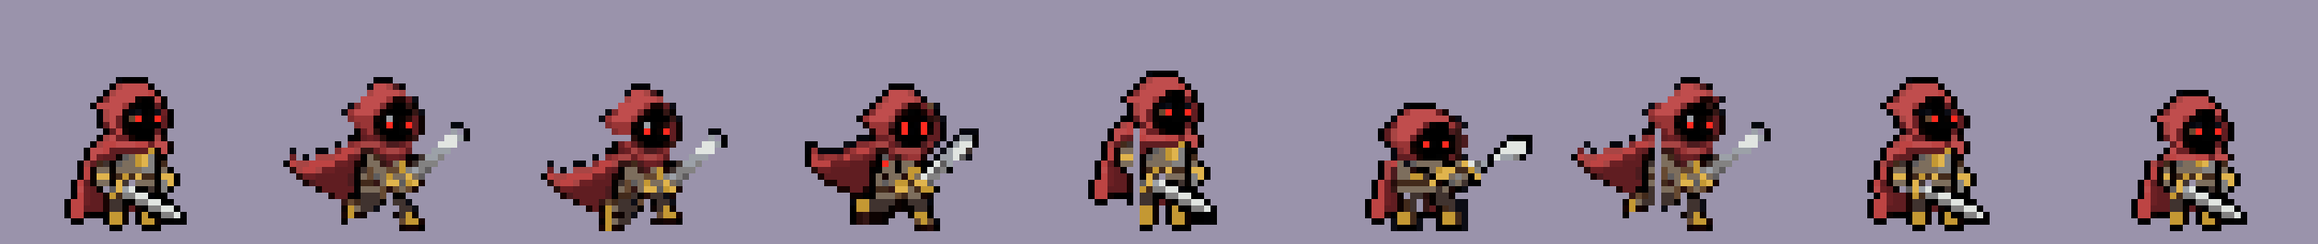
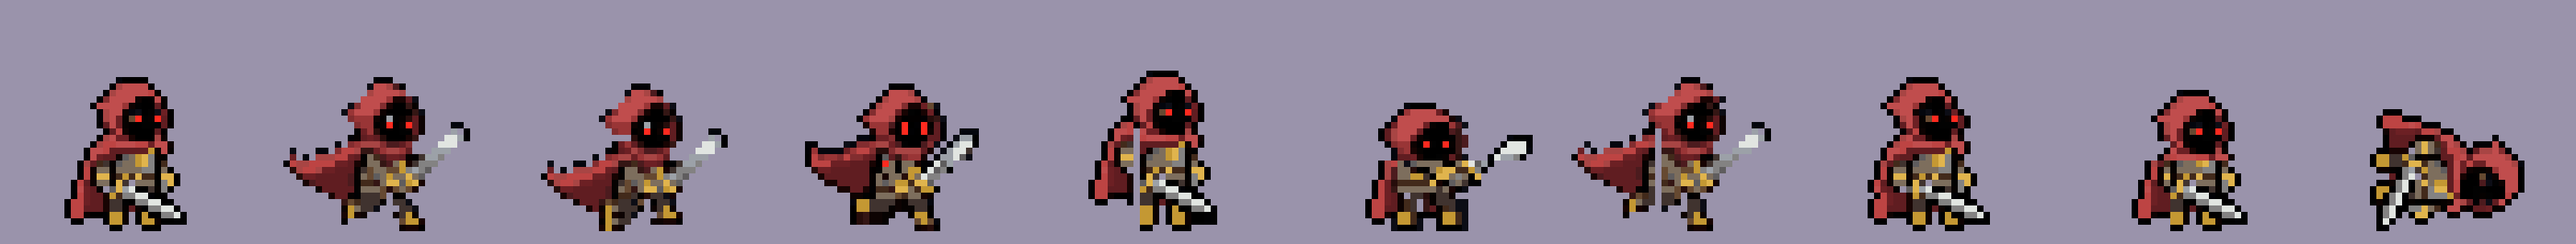
Torre 2D: la playa (arrancás dormido en la arena), la sala de la pluma con escalones alcanzables y el aterrizaje justo sobre el píxel

diff --git a/js/tower2d.js b/js/tower2d.js
@@ -56,16 +56,31 @@ try { const saved = JSON.parse(localStorage.getItem('t2d-feel') || '{}'); T2D_TU
 //     P entrada · E caminante · C embestidor (avisa y embiste) · F la Pluma de Arén (doble salto)
 //     Los bordes abiertos llevan a la sala que dice `exits`.
 const T2D_ROOMS = {
-    base: { name: 'La puerta de la Torre', exits: { right: 'salon' }, rows: [
+    playa: { name: 'La playa', bg: 'beach', camUp: 45, exits: { right: 'base' }, rows: [
+        '.....................................................#######',
+        '.....................................................#######',
+        '.....................................................#######',
+        '.....................................................#######',
+        '.....................................................#######',
+        '.....................................................#######',
+        '............................................................',
+        '#............................##.......ss....................',
+        '#................ss....ww.P..##.....sssss...................',
+        '#~~~~~~~~~~~~~~~sssssssssssssssssssssssssssssssssssss#######',
+        '#~~~~~~~~~~~~~~~sssssssssssssssssssssssssssssssssssss#######',
+        '#~~~~~~~~~~~~~~~sssssssssssssssssssssssssssssssssssss#######',
+        '#ssssssssssssssssssssssssssssssssssssssssssssssssssss#######',
+        '############################################################'] },
+    base: { name: 'La puerta de la Torre', exits: { left: 'playa', right: 'salon' }, rows: [
         '########################################',
         '#......................................#',
         '#......................................#',
         '#......................................#',
         '#......................................#',
         '#......................................#',
-        '#.....................======...........#',
-        '#......................................#',
-        '#..............====....................#',
+        '......................======...........#',
+        '.......................................#',
+        '...............====....................#',
         '#......................................#',
         '#.....=====........................tt...',
         '#..................................tt...',
@@ -73,18 +88,18 @@ const T2D_ROOMS = {
         '########################################'] },
     salon: { name: 'El Atrio Verde', exits: { left: 'base', up: 'alto' }, rows: [
         '###############################...######',
+        '#......................................#',
         '#..............................F.......#',
-        '#............................=====.....#',
+        '#..........................=====.......#',
         '#......................................#',
-        '#.....................=====............#',
+        '#....................=====.............#',
         '#......................................#',
-        '#..............====....................#',
+        '#.............=====....................#',
         '#......................................#',
         '#.......wwww...........................#',
         '.......................................#',
-        '.......................................#',
-        '..........E.............C..............#',
-        '#....................#LLL#.............#',
+        '....##.................................#',
+        '..........E.............C...#LLL#......#',
         '########################################'] },
     alto: { name: 'El mirador de Arén', exits: { down: 'salon' }, rows: [
         '########################################',
@@ -124,7 +139,11 @@ function t2dMoveAxis(w, b, dx, dy) {
         const s = Math.sign(dy); let rest = Math.abs(dy);
         while (rest > 1e-6) {
             const st = Math.min(1, rest), ny = b.y + s * st;
-            if (w2dBoxHits(w, { x: b.x, y: ny, w: b.w, h: b.h })) { if (s > 0) b.y = Math.floor(b.y + b.h) - b.h; return true; } // apoyado justo sobre el píxel
+            if (w2dBoxHits(w, { x: b.x, y: ny, w: b.w, h: b.h })) { // apoyado justo sobre el píxel (ni flotando ni metido)
+                const fy = s > 0 ? Math.ceil(b.y + b.h) - b.h : Math.floor(b.y);
+                if (!w2dBoxHits(w, { x: b.x, y: fy, w: b.w, h: b.h })) b.y = fy;
+                return true;
+            }
             b.y = ny; rest -= st;
         }
     }
@@ -260,6 +279,14 @@ function t2dUpdate(input, dt) {
     g.clock += dt;
     if (h.hp <= 0) { if (g.clock - h.diedAt > 1.2) { const dj = h.doubleJump; t2d = null; t2dEnterRoom('base'); t2d.hero.doubleJump = dj; t2dMsg('Volviste a la puerta de la Torre.'); } return; }
     if ((g.simTick = (g.simTick || 0) + 1) % 2 === 0) w2dStep(g.world); // el mundo de píxeles, 60 veces por segundo
+    if (h.sleeping) { // dormido en la arena: cualquier tecla lo despierta
+        if (input.left || input.right || input.jump || input.attack || input.dash || input.up || input.down) {
+            h.sleeping = false; h.wakeAt = g.clock; g.squash = { x: 0.85, y: 1.15 };
+            t2dMsg('Despertaste en una playa, sin recordar nada. A lo lejos, una torre que se pierde en las nubes. (Esc: controles)');
+        } else if (g.clock - (h.zzzAt ?? -9) > 0.9) { h.zzzAt = g.clock; g.nums.push({ x: h.x + h.w, y: h.y + 6, text: 'z', at: g.realClock, color: '#f2f0e9' }); }
+        t2dFx(dt); return;
+    }
+    if (g.clock - (h.wakeAt ?? -9) < 0.45) { t2dFx(dt); return; } // levantándose
     t2dStepHero(g.world, h, input, dt);
     // lo que pasó en el paso: polvo, estirar y aplastar, sonido
     (h.events || []).forEach(ev => {
@@ -362,7 +389,7 @@ function t2dPogo(h) { if (h.pogoDone) return; h.pogoDone = true; h.vy = -T2D.her
 // Cámara, temblor, estirar/aplastar, partículas y estelas (corren también durante la pausa de impacto)
 function t2dFx(dt) {
     const g = t2d, h = g.hero, F = T2D.feel, VW = T2D.VIEW_W, VH = T2D.VIEW_H;
-    const tx = Math.max(0, Math.min(g.W - VW, h.x + h.w / 2 - VW / 2 + h.facing * F.camLook)), ty = Math.max(0, Math.min(g.H - VH, h.y + h.h / 2 - VH / 2 - 10));
+    const tx = Math.max(0, Math.min(g.W - VW, h.x + h.w / 2 - VW / 2 + h.facing * F.camLook)), ty = Math.max(0, Math.min(g.H - VH, h.y + h.h / 2 - VH / 2 - (g.room.camUp || 10))); // camUp: cuánto más mira para arriba
     const k = 1 - Math.exp(-F.camLerp * dt);
     g.cam.x += (tx - g.cam.x) * k; g.cam.y += (ty - g.cam.y) * k;
     g.shake *= Math.pow(0.002, dt);
@@ -400,6 +427,8 @@ function t2dHeroSprite(name) {
     return (t2dArtCache[name] = { img: c, ax: F.ax });
 }
 function t2dHeroFrame(h, clock) {
+    if (h.sleeping) return 'sleep';
+    if (clock - (h.wakeAt ?? -9) < 0.45) return 'land'; // se levanta
     const at = clock - (h.attackAt ?? -9);
     if (at < 0.24) {
         if (h.aim === 'up') return at < 0.08 ? 'ready' : 'raise';
@@ -427,8 +456,9 @@ function t2dDraw(ctx, scale) {
     const sh = g.shake > 0.2 ? g.shake : 0;
     const camX = Math.round(g.cam.x + (Math.random() - 0.5) * sh), camY = Math.round(g.cam.y + (Math.random() - 0.5) * sh);
     ctx.save(); ctx.imageSmoothingEnabled = false; ctx.scale(scale, scale);
-    ctx.fillStyle = '#9a93ab'; ctx.fillRect(0, 0, VW, VH); // fondo claro: el encapuchado es oscuro y tiene que recortarse
-    for (let i = 0; i < 6; i++) { ctx.fillStyle = 'rgba(70,62,85,0.25)'; ctx.fillRect(((i * 97 - camX * 0.3) % (VW + 60) + VW + 60) % (VW + 60) - 30, 20 + (i % 3) * 30, 18, VH); } // columnas al fondo (paralaje)
+    if (g.room.bg === 'beach') t2dBeachSky(ctx, camX, camY, g.realClock);
+    else { ctx.fillStyle = '#9a93ab'; ctx.fillRect(0, 0, VW, VH); } // fondo claro: el encapuchado es oscuro y tiene que recortarse
+    if (g.room.bg !== 'beach') for (let i = 0; i < 6; i++) { ctx.fillStyle = 'rgba(70,62,85,0.25)'; ctx.fillRect(((i * 97 - camX * 0.3) % (VW + 60) + VW + 60) % (VW + 60) - 30, 20 + (i % 3) * 30, 18, VH); } // columnas al fondo (paralaje)
     ctx.translate(-camX, -camY);
     w2dFlicker(g.world); ctx.drawImage(w2dRender(g.world), 0, 0); // el mundo de píxeles (js/tower2dWorld.js)
     g.feathers.forEach(f => { ctx.fillStyle = '#ffd166'; ctx.fillRect(f.x + 3, f.y + Math.sin(g.clock * 3) * 2, 4, 10); ctx.fillStyle = '#fff3c4'; ctx.fillRect(f.x + 4, f.y + 1 + Math.sin(g.clock * 3) * 2, 2, 6); });
@@ -519,8 +549,8 @@ async function t2dStart(canvas, panel) {
         img.src = `torre2d/salas/${key}.png`;
     }));
     await Promise.all(loads);
-    t2dEnterRoom('base');
-    t2dMsg('A/D: moverte · Espacio: saltar (mantené para más alto) · J o clic: tajo (con W arriba, con S abajo en el aire: rebota) · Shift o clic derecho: dash · mantené el tajo: golpe cargado · E: parada justo antes del golpe · Esc: pausa · T: ajustes');
+    t2dEnterRoom('playa'); t2d.hero.sleeping = true;
+    t2dMsg('Zzz… (cualquier tecla para despertar)');
     let last = performance.now(), acc = 0;
     const frame = now => {
         acc += Math.min(0.1, (now - last) / 1000); last = now;
@@ -540,4 +570,17 @@ function t2dParry(h, clock) {
     if (clock < (h.parryReadyAt || 0) || h.hp <= 0) return false;
     h.parryAt = clock; h.parryReadyAt = clock + T2D.parry.cd; h.blockFrameUntil = clock + 0.25;
     return true;
+}
+
+// El cielo de la playa: degradé, sol, nubes que pasan, el mar en el horizonte y la torre a lo lejos (paralaje)
+function t2dBeachSky(ctx, camX, camY, t) {
+    const VW = T2D.VIEW_W, VH = T2D.VIEW_H, sky = ctx.createLinearGradient(0, 0, 0, VH);
+    sky.addColorStop(0, '#7fb8e0'); sky.addColorStop(0.7, '#cfe6ef'); sky.addColorStop(1, '#f2e6c9');
+    ctx.fillStyle = sky; ctx.fillRect(0, 0, VW, VH);
+    ctx.fillStyle = '#fff4c2'; ctx.beginPath(); ctx.arc(60 - camX * 0.05, 34 - camY * 0.05, 12, 0, Math.PI * 2); ctx.fill();
+    ctx.fillStyle = 'rgba(255,255,255,0.8)';
+    for (let i = 0; i < 4; i++) { const x = ((i * 120 + t * 4 - camX * 0.15) % (VW + 80) + VW + 80) % (VW + 80) - 40; ctx.fillRect(x, 18 + i * 9, 34, 5); ctx.fillRect(x + 6, 15 + i * 9, 18, 4); }
+    ctx.fillStyle = '#5a7a9a'; const tx = 250 - camX * 0.2; ctx.fillRect(tx, -10, 14, VH * 0.8); ctx.fillRect(tx - 3, -10, 20, 10); // la torre, perdida en las nubes
+    ctx.fillStyle = 'rgba(255,255,255,0.7)'; ctx.fillRect(tx - 10, 4, 40, 6);
+    ctx.fillStyle = '#3f7fb8'; ctx.fillRect(0, VH * 0.62 - camY * 0.1, VW, 3); // el horizonte del mar
 }

diff --git a/js/towerHeroArt.js b/js/towerHeroArt.js
@@ -624,5 +624,25 @@ Object.assign(HERO_ART.frames, {
         'CXXGAAbbG.CbBDaaeF',
         '.CA...bbG.CbbGAACD',
         '......CD...CDD....'] },
+    sleep: { ax: 12.0, rows: [
+        '..CCC...................',
+        '.CXXXCCC................',
+        '.AXXXXZXCCC.............',
+        '..GPRRRPXXWCC...........',
+        '..APPPPGGGPZZF.....F....',
+        '..APPPEYcYORZWC.CFFZC...',
+        '.FCIII.YcYQPXXWCPWWZSF..',
+        'CbbQQbVDGEEPPXZPZZZZZWC.',
+        'DbbQQOccOYVGPZRXRRZZZZWH',
+        '.GGEDadQbYYVPZRGEEGUZZZA',
+        '...PAae.OYYYPZIABTHGZZZA',
+        '.CCGaeCYcYbbPXAAANJDGZZA',
+        'CbbCaeAYOaccPXAADDAAAZZA',
+        'DbBaeFQYOaaabRAADEDABXB.',
+        'DGDaeAEDAABEGZWPCNJPZE..',
+        '.AaeAAaacYODZZGBPPREE...',
+        '.AaeC.AccC..EG..BBB.....',
+        '.CeC...CB...............',
+        '.DF.....................'] },
 });
 // --- FIN CUADROS 2D ---

diff --git a/js/main.js b/js/main.js
@@ -1,7 +1,7 @@
 // Punto de entrada: conecta los botones y arranca el bucle principal.
 
 // Versión visible en el menú: si no coincide con la última subida, el navegador muestra una copia vieja (Ctrl+F5).
-const GAME_VERSION = '2026-10-25 · Torre 2D: mundo de píxeles estilo Noita';
+const GAME_VERSION = '2026-10-25 · Torre 2D: la playa (arrancás dormido) y la sala de la pluma alcanzable';
 document.getElementById('game-version').textContent = `Versión ${GAME_VERSION}`;
 // Se actualiza solo (2026-10-17, "no se actualizó"): GitHub Pages deja el juego en la caché del navegador hasta 10 min.
 // Si el main.js del servidor trae otra versión, se vuelven a bajar la página y sus archivos y se recarga (una vez por versión).

diff --git a/docs/arte/torre2d-cuadros.py b/docs/arte/torre2d-cuadros.py
@@ -88,6 +88,9 @@ ax, g = grid('ready'); g = squash(g, 3); new['land'] = trim(g, ax)
 ax, g = grid('walk1'); g = pad(g, 4, 0); ax += 4; g = shear(g, 3); ax += 3; g = cape_move(g, ax, -1, -1); new['dash'] = trim(g, ax)
 ax, g = grid('idle'); g = shear(g, -2); ax += 2; new['hurt'] = trim(g, ax)
 ax, g = grid('idle'); g = squash(g, 2); g = cape_move(g, ax, 1, 0); new['wall'] = trim(g, ax)
+# dormido en la arena: el de quieto acostado (girado, con la cabeza hacia la derecha) y los ojos cerrados (sin el rojo)
+ax, g = grid('idle'); g = [list(r) for r in zip(*g[::-1])]  # girado 90° (los pies quedan a la izquierda)
+g = [['N' if c == '!' else c for c in r] for r in g]; new['sleep'] = trim(g, len(g[0]) / 2)
 
 # escribir el bloque en js/towerHeroArt.js (antes del cierre de frames)
 lines = ["\n// --- CUADROS 2D (docs/arte/torre2d-cuadros.py; no editar a mano: se regeneran) ---"]

diff --git a/docs/arte/torre2d-salas.py b/docs/arte/torre2d-salas.py
@@ -7,7 +7,7 @@ from PIL import Image
 
 ROOT = os.path.dirname(os.path.dirname(os.path.dirname(os.path.abspath(__file__))))
 src = open(os.path.join(ROOT, 'js', 'tower2d.js'), encoding='utf-8').read()
-rooms = {m.group(1): re.findall(r"'([^']*)'", m.group(2)) for m in re.finditer(r"(\w+): \{ name: '[^']*', exits: \{[^}]*\}, rows: \[(.*?)\] \}", src, re.S)}
+rooms = {m.group(1): re.findall(r"'([^']*)'", m.group(2)) for m in re.finditer(r"(\w+): \{ name: '[^']*',[^\[]*rows: \[(.*?)\] \}", src, re.S)}
 T = 16
 COL = {'#': (0x50, 0x50, 0x50), 'p': (0x7a, 0x7a, 0x7a), 't': (0x7d, 0x5a, 0x3a), 's': (0xe6, 0xc3, 0x5c), '~': (0x2f, 0x6f, 0xd6),
        'w': (0xc0, 0x80, 0x40), '=': (0xc0, 0x80, 0x40), 'L': (0xff, 0x40, 0x00), '^': (0xd0, 0xd0, 0xe0)}
